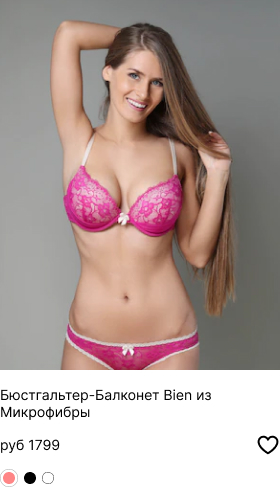
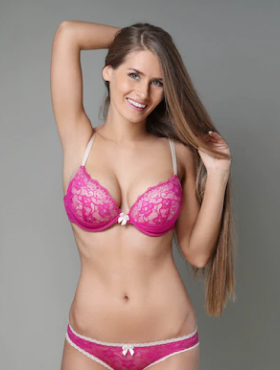
пром результат ДЗ

diff --git a/src/style/_product.scss b/src/style/_product.scss
@@ -1,0 +1,51 @@
+.product {
+ 
+    &__title {
+        font-weight: 400;
+        font-size: 14px;
+        line-height: 17px;
+        margin-bottom: 13px;
+
+        @include tablet {
+            font-size: 12px;
+            line-height: 15px;
+            margin-bottom: 10px;
+        }
+    }
+
+    &__link {
+
+    }
+    &__btn-favorite {
+        width: 24px;
+        height: 24px;
+        //background-image: none;
+
+        &_active {
+            //background-image: none;
+        }
+    }
+
+    &__row {
+        display: flex;
+        justify-content: space-between;
+        align-items: center;
+        margin-bottom: 12px;
+
+    }
+    &__price {
+        font-size: 14px;
+        line-height: 17px;
+    }
+
+
+    &__image {
+        margin-bottom: 16px;
+
+        @include tablet {
+            margin-bottom: 10px;
+        }
+    }
+
+    
+}

diff --git a/src/style/_footer.scss b/src/style/_footer.scss
@@ -1,0 +1,7 @@
+.footer {
+    &__container {
+        display: grid;
+        grid-template-columns: 1fr 2fr 1fr;
+        align-items: center;
+    }
+}

diff --git a/src/index.scss b/src/index.scss
@@ -10,3 +10,4 @@
 @import 'style/hero';
 @import 'style/goods';
 @import 'style/product';
+@import 'style/footer';
